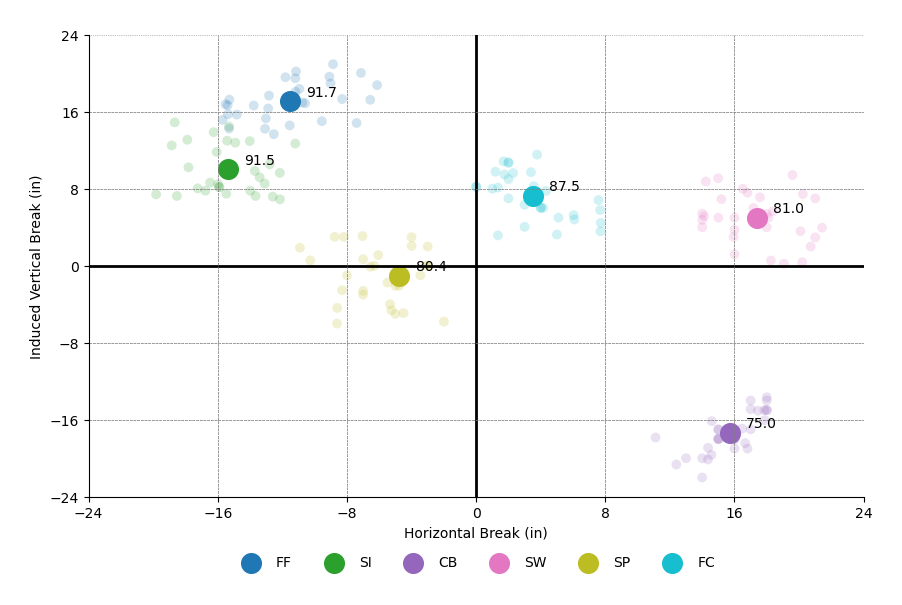
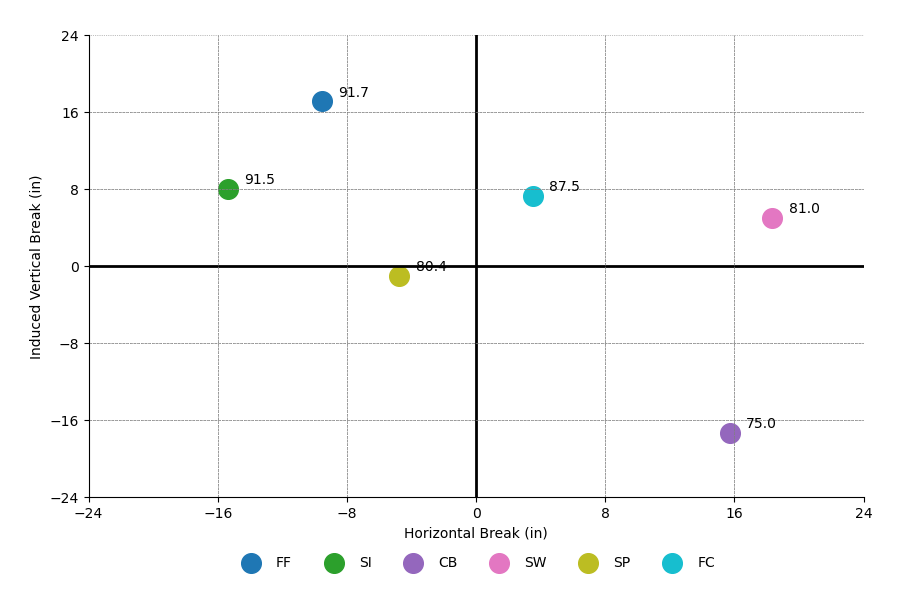
Update documentation

diff --git a/index.html b/index.html
@@ -19,11 +19,11 @@
 <section id="content" class="body">
     <h1 class="entry-title">Player Profile</h1>
     
-    <p>22 year old 6'5" LHP with a low 90s fastball (T94) and 3 plus secondary pitches. Currently seeking an affiliate opportunity. Last year in the Pioneer League:</p>
+    <p>22 year old 6'5" LHP up to 94mph with 3 plus secondary pitches. Seeking an affiliate opportunity. Last year in the Pioneer League:</p>
 <ul>
 <li>161 ERA+</li>
 <li>10.6 K/9</li>
-<li>2.96 K/BB</li>
+<li>3:1 K:BB</li>
 <li>63 IP (9 starts)</li>
 </ul>
 <h2>Live AB Highlights</h2>
@@ -57,7 +57,7 @@
   <iframe src="https://www.youtube.com/embed/B3auagPuTMI?si=PofJ3pkVQbQYP2uE" frameborder="0" allowfullscreen></iframe>
 </div>
 
-<h2>Side View</h2>
+<h2>Side View Mechanics</h2>
 <div class="video">
   <video width="320" height="240" controls>
     <source src="https://adambloebaum.github.io/playersite/videos/side.mp4" type="video/mp4">
@@ -65,9 +65,9 @@
   </video>
 </div>
 
-<h2>Arsenal Overview</h2>
+<h2>Arsenal Overview (avg)</h2>
 <p><img alt="Arsenal Plot" src="images/arsenal-plot.png"></p>
-<h2>Arsenal Stuff+</h2>
+<h2>Arsenal Stuff+ (avg)</h2>
 <p><img alt="Arsenal Stuff+" src="images/arsenal-stuff.png"></p>
 </section>
         <section id="extras" class="body">
